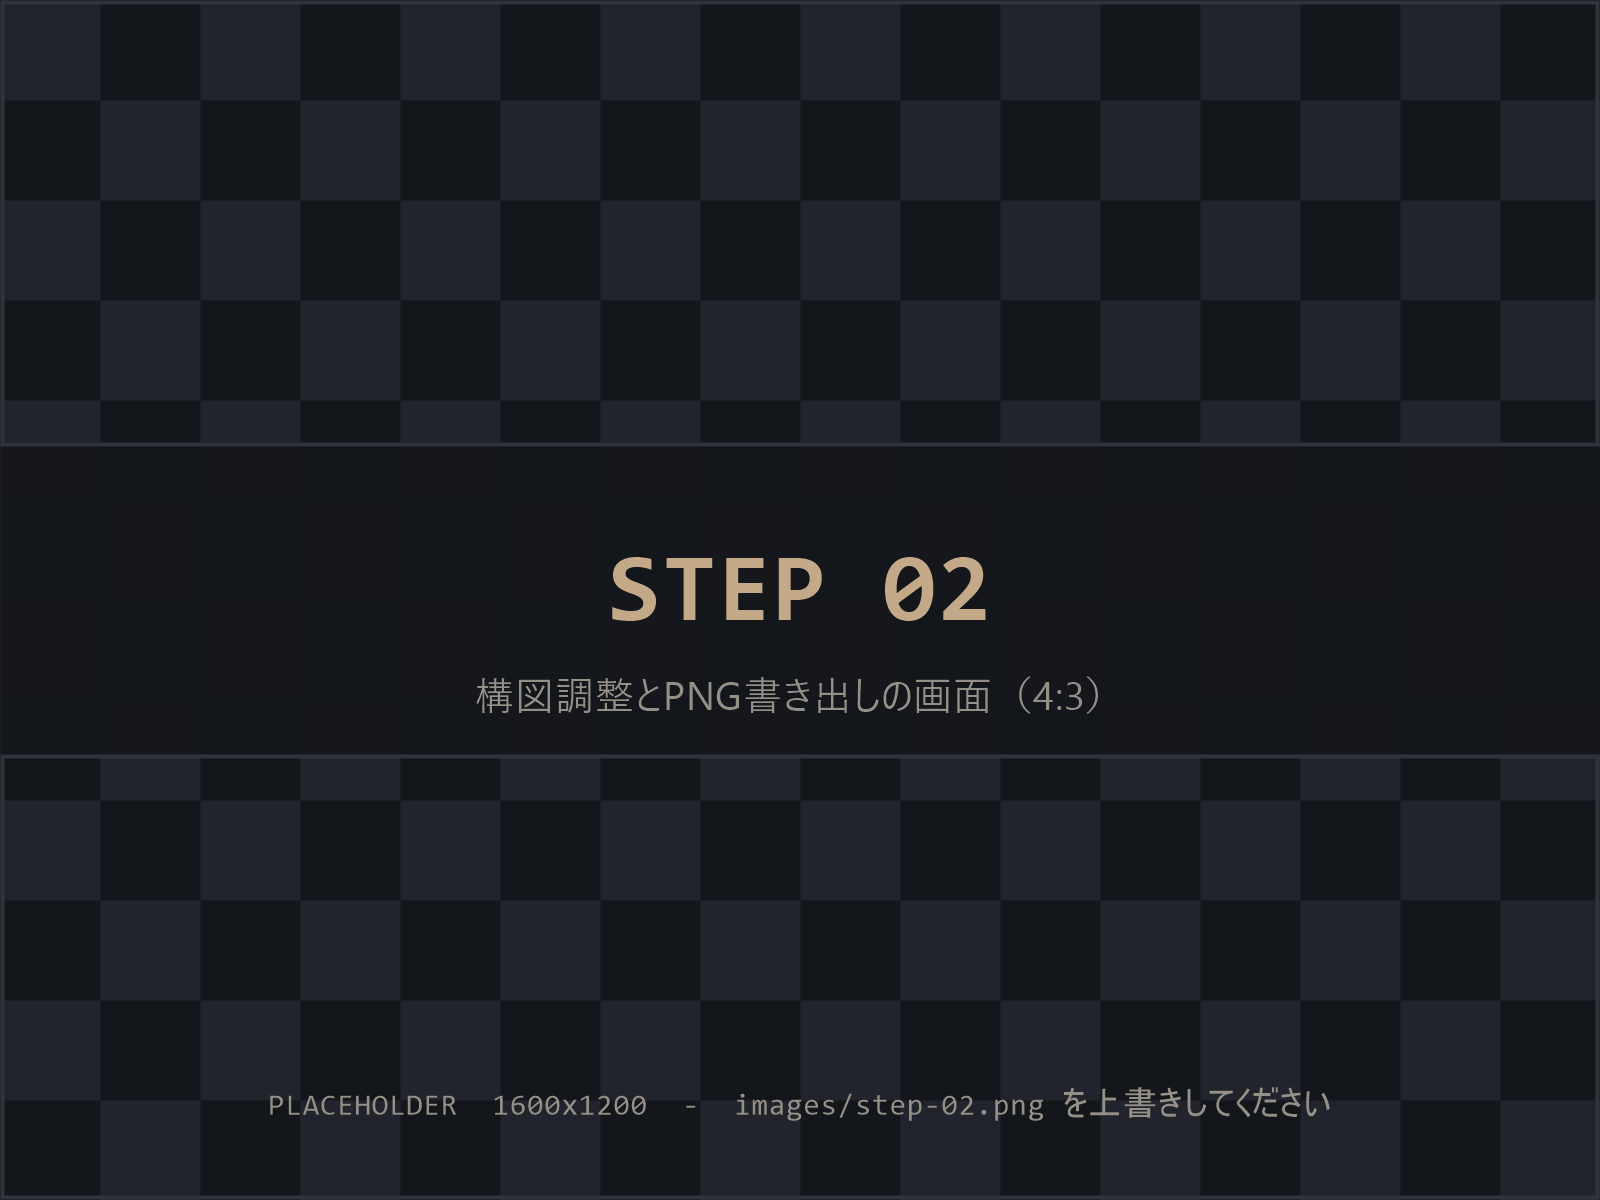
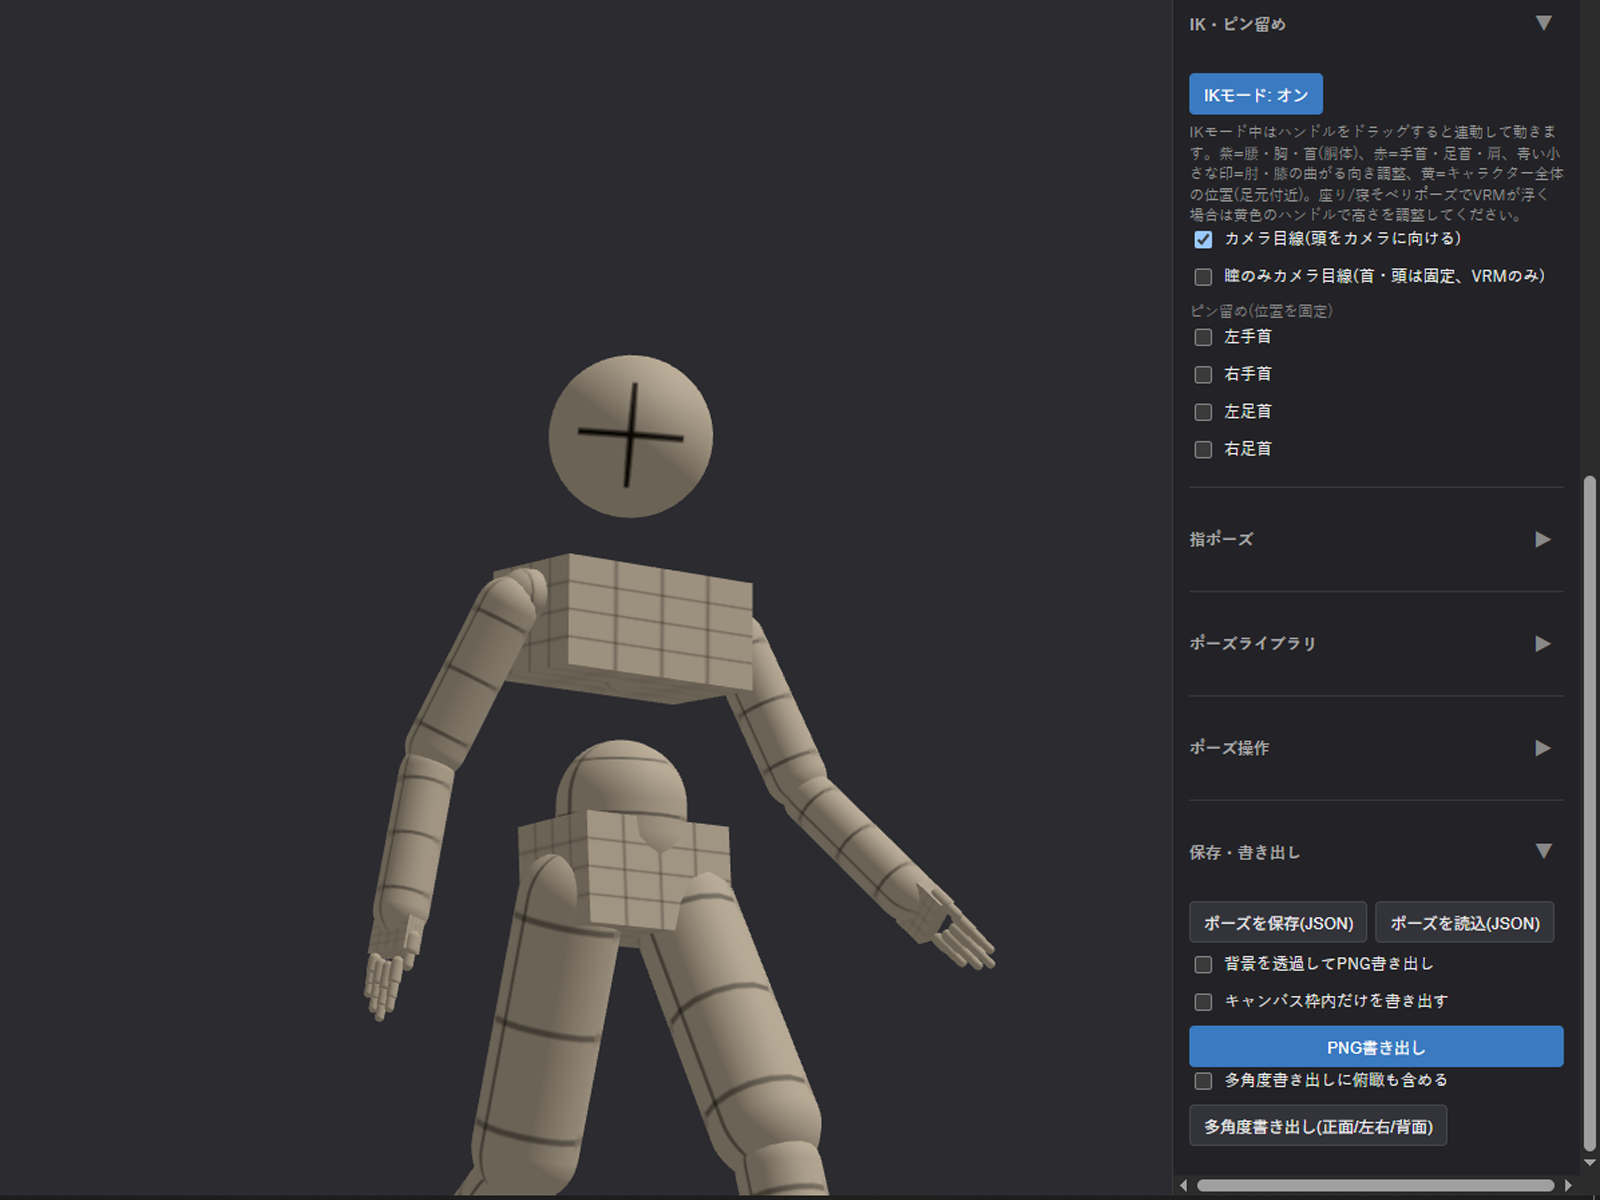
軽微な修正

diff --git a/app/src/ui/style.css b/app/src/ui/style.css
@@ -5,6 +5,14 @@
      document.documentElement.style.setPropertyで書き換えられる(2026-07-28、ユーザー要望でオレンジ/青の
      切替機能を追加)。個々のルールはこの変数を参照するだけにし、色の実体はここに一本化する。 */
   --accent: #d97a2f;
+
+  /* セクション見出しのシェブロン(▾)の色。開閉状態を色でも示す(2026-08-25、ユーザー要望)。
+     値はPanelUI.tsのACCENT_COLORSと同じオレンジ/青。
+     ※--accentを参照しない理由: --accentはヘッダーのスウォッチでオレンジ⇔青に切り替わるため、
+       参照すると「開＝オレンジ / 閉＝青」の対比自体が消える。ここは固定値で持つ。
+       ACCENT_COLORSの色を変える場合はこの2つも合わせること。 */
+  --chevron-open: #d97a2f;
+  --chevron-closed: #3a7ac0;
 }
 
 * {
@@ -233,8 +241,8 @@ body,
   flex-shrink: 0;
   margin-left: 8px;
   font-size: 36px;
-  color: #888;
-  transition: transform 0.15s ease;
+  color: var(--chevron-open);
+  transition: transform 0.15s ease, color 0.15s ease;
 }
 
 .panel-section--collapsed .panel-section__header {
@@ -243,6 +251,7 @@ body,
 
 .panel-section--collapsed .panel-section__chevron {
   transform: rotate(-90deg);
+  color: var(--chevron-closed);
 }
 
 .panel-section--collapsed .panel-section__body {
